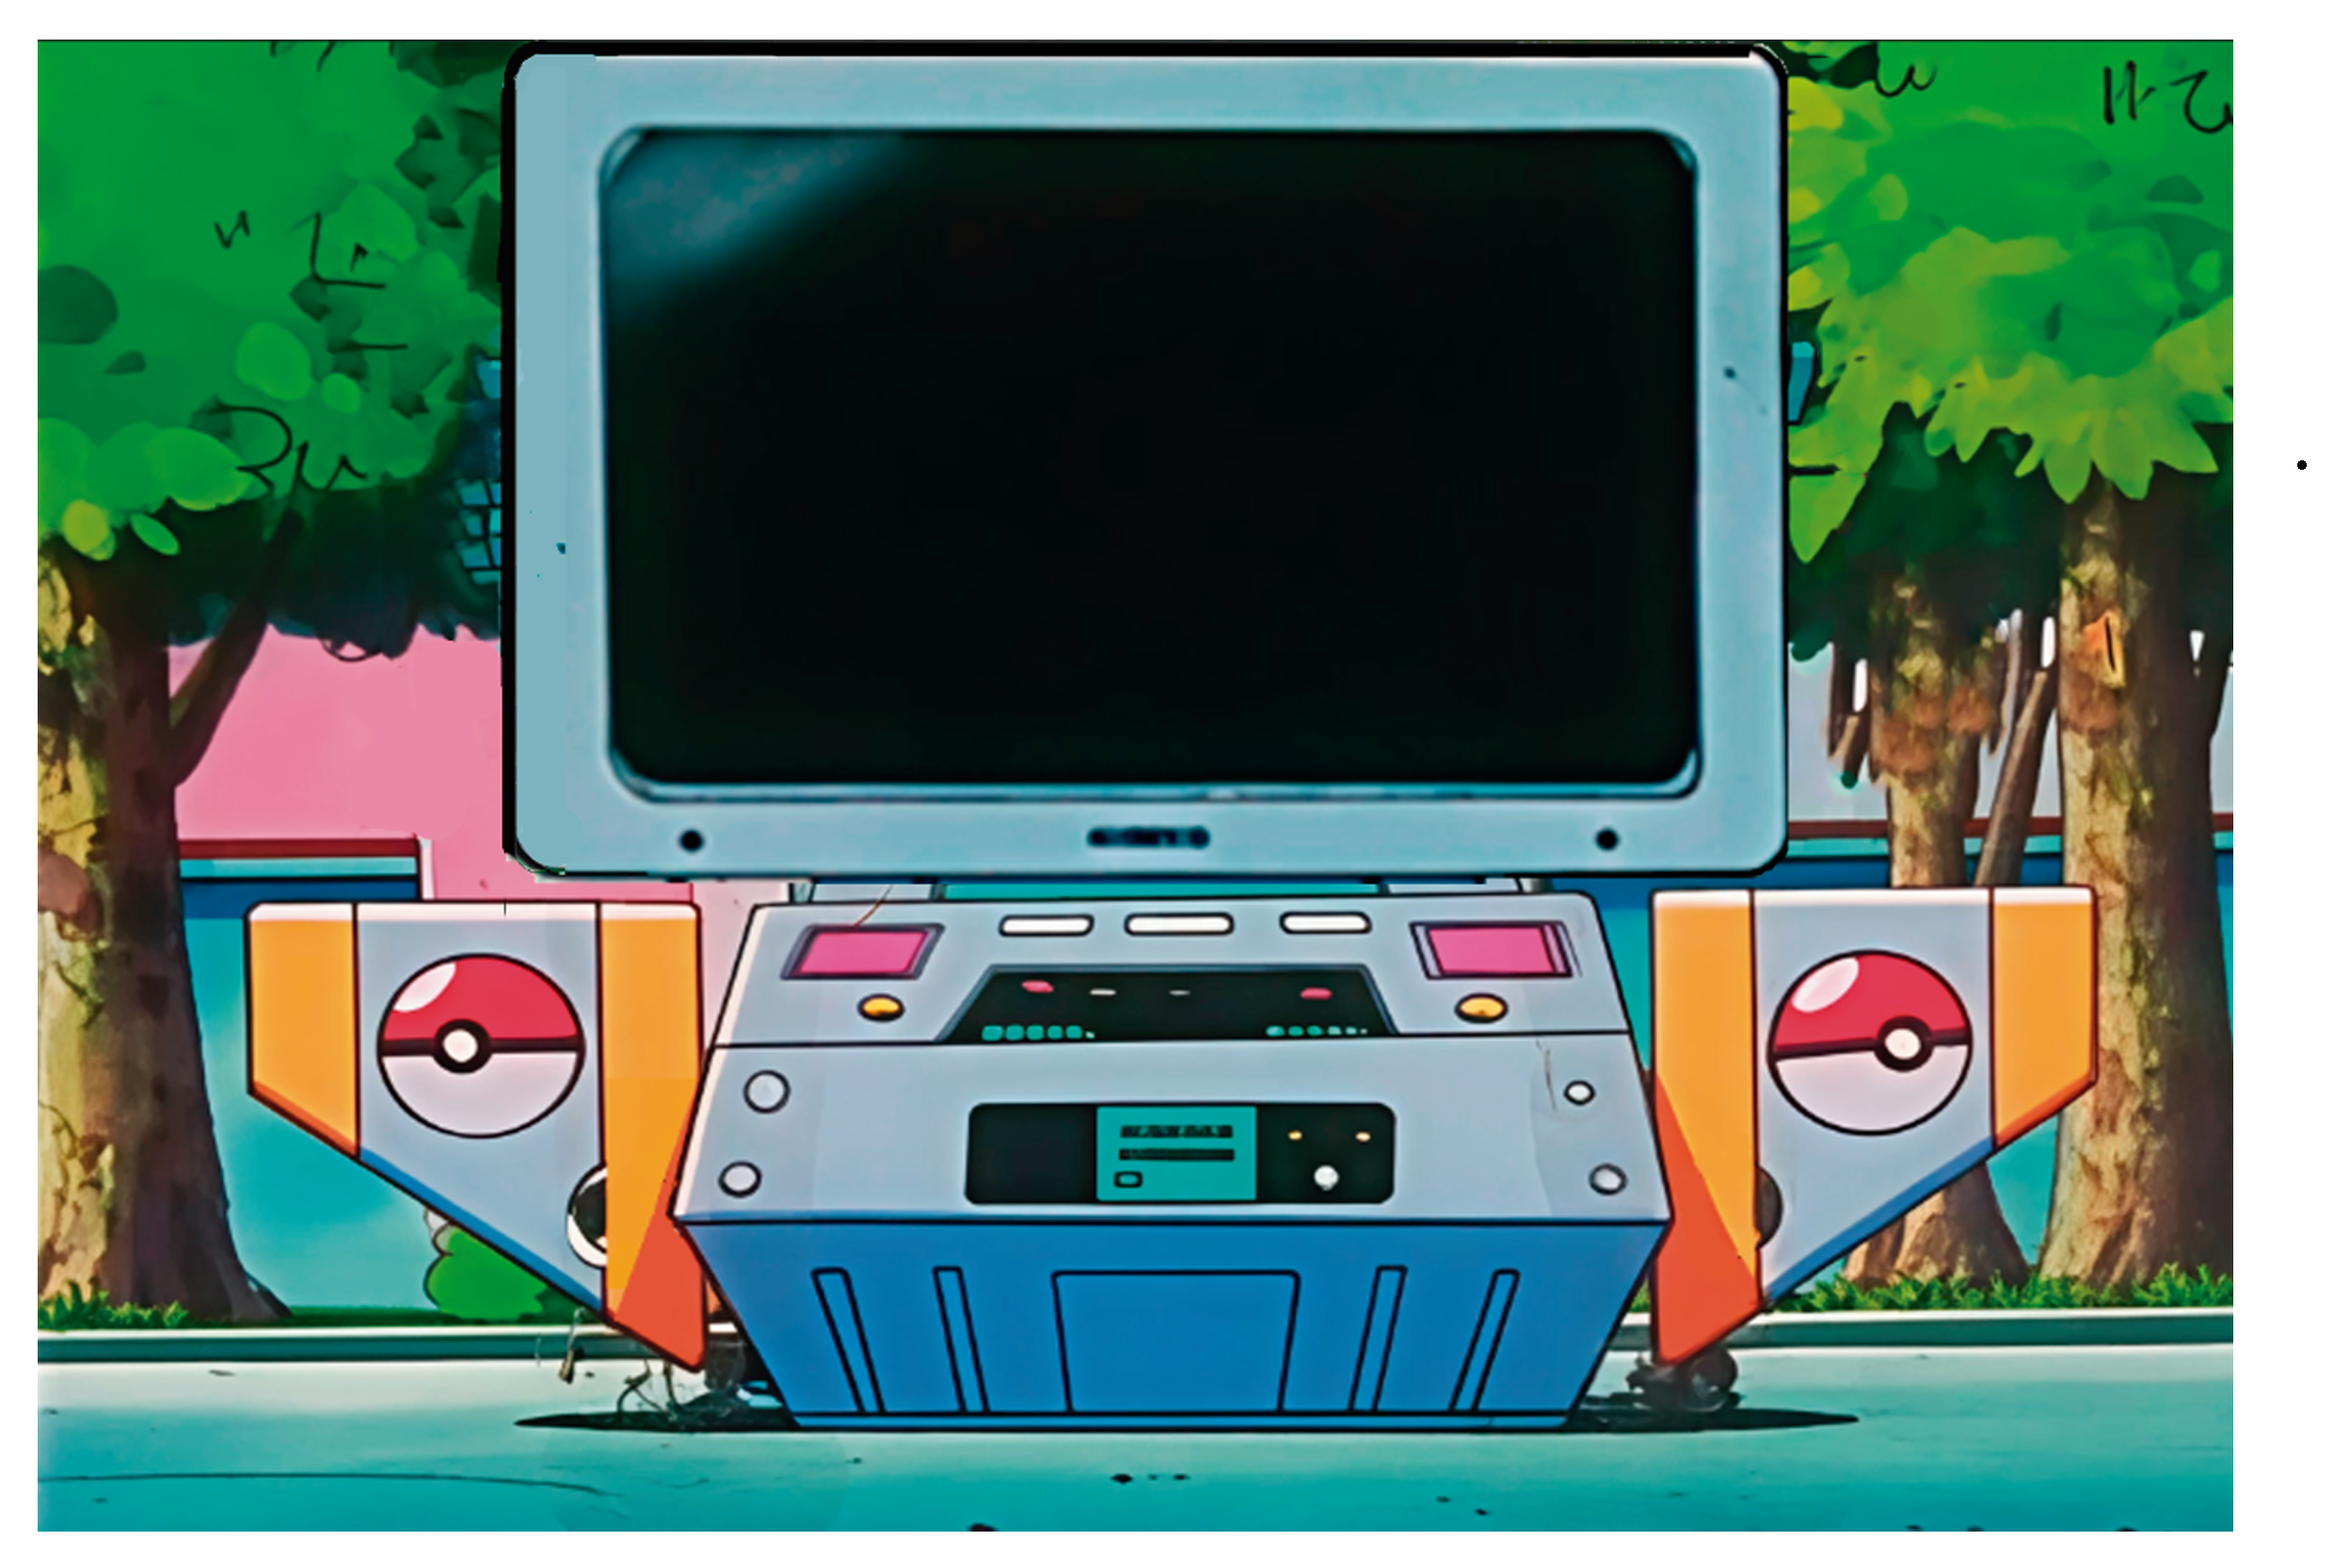
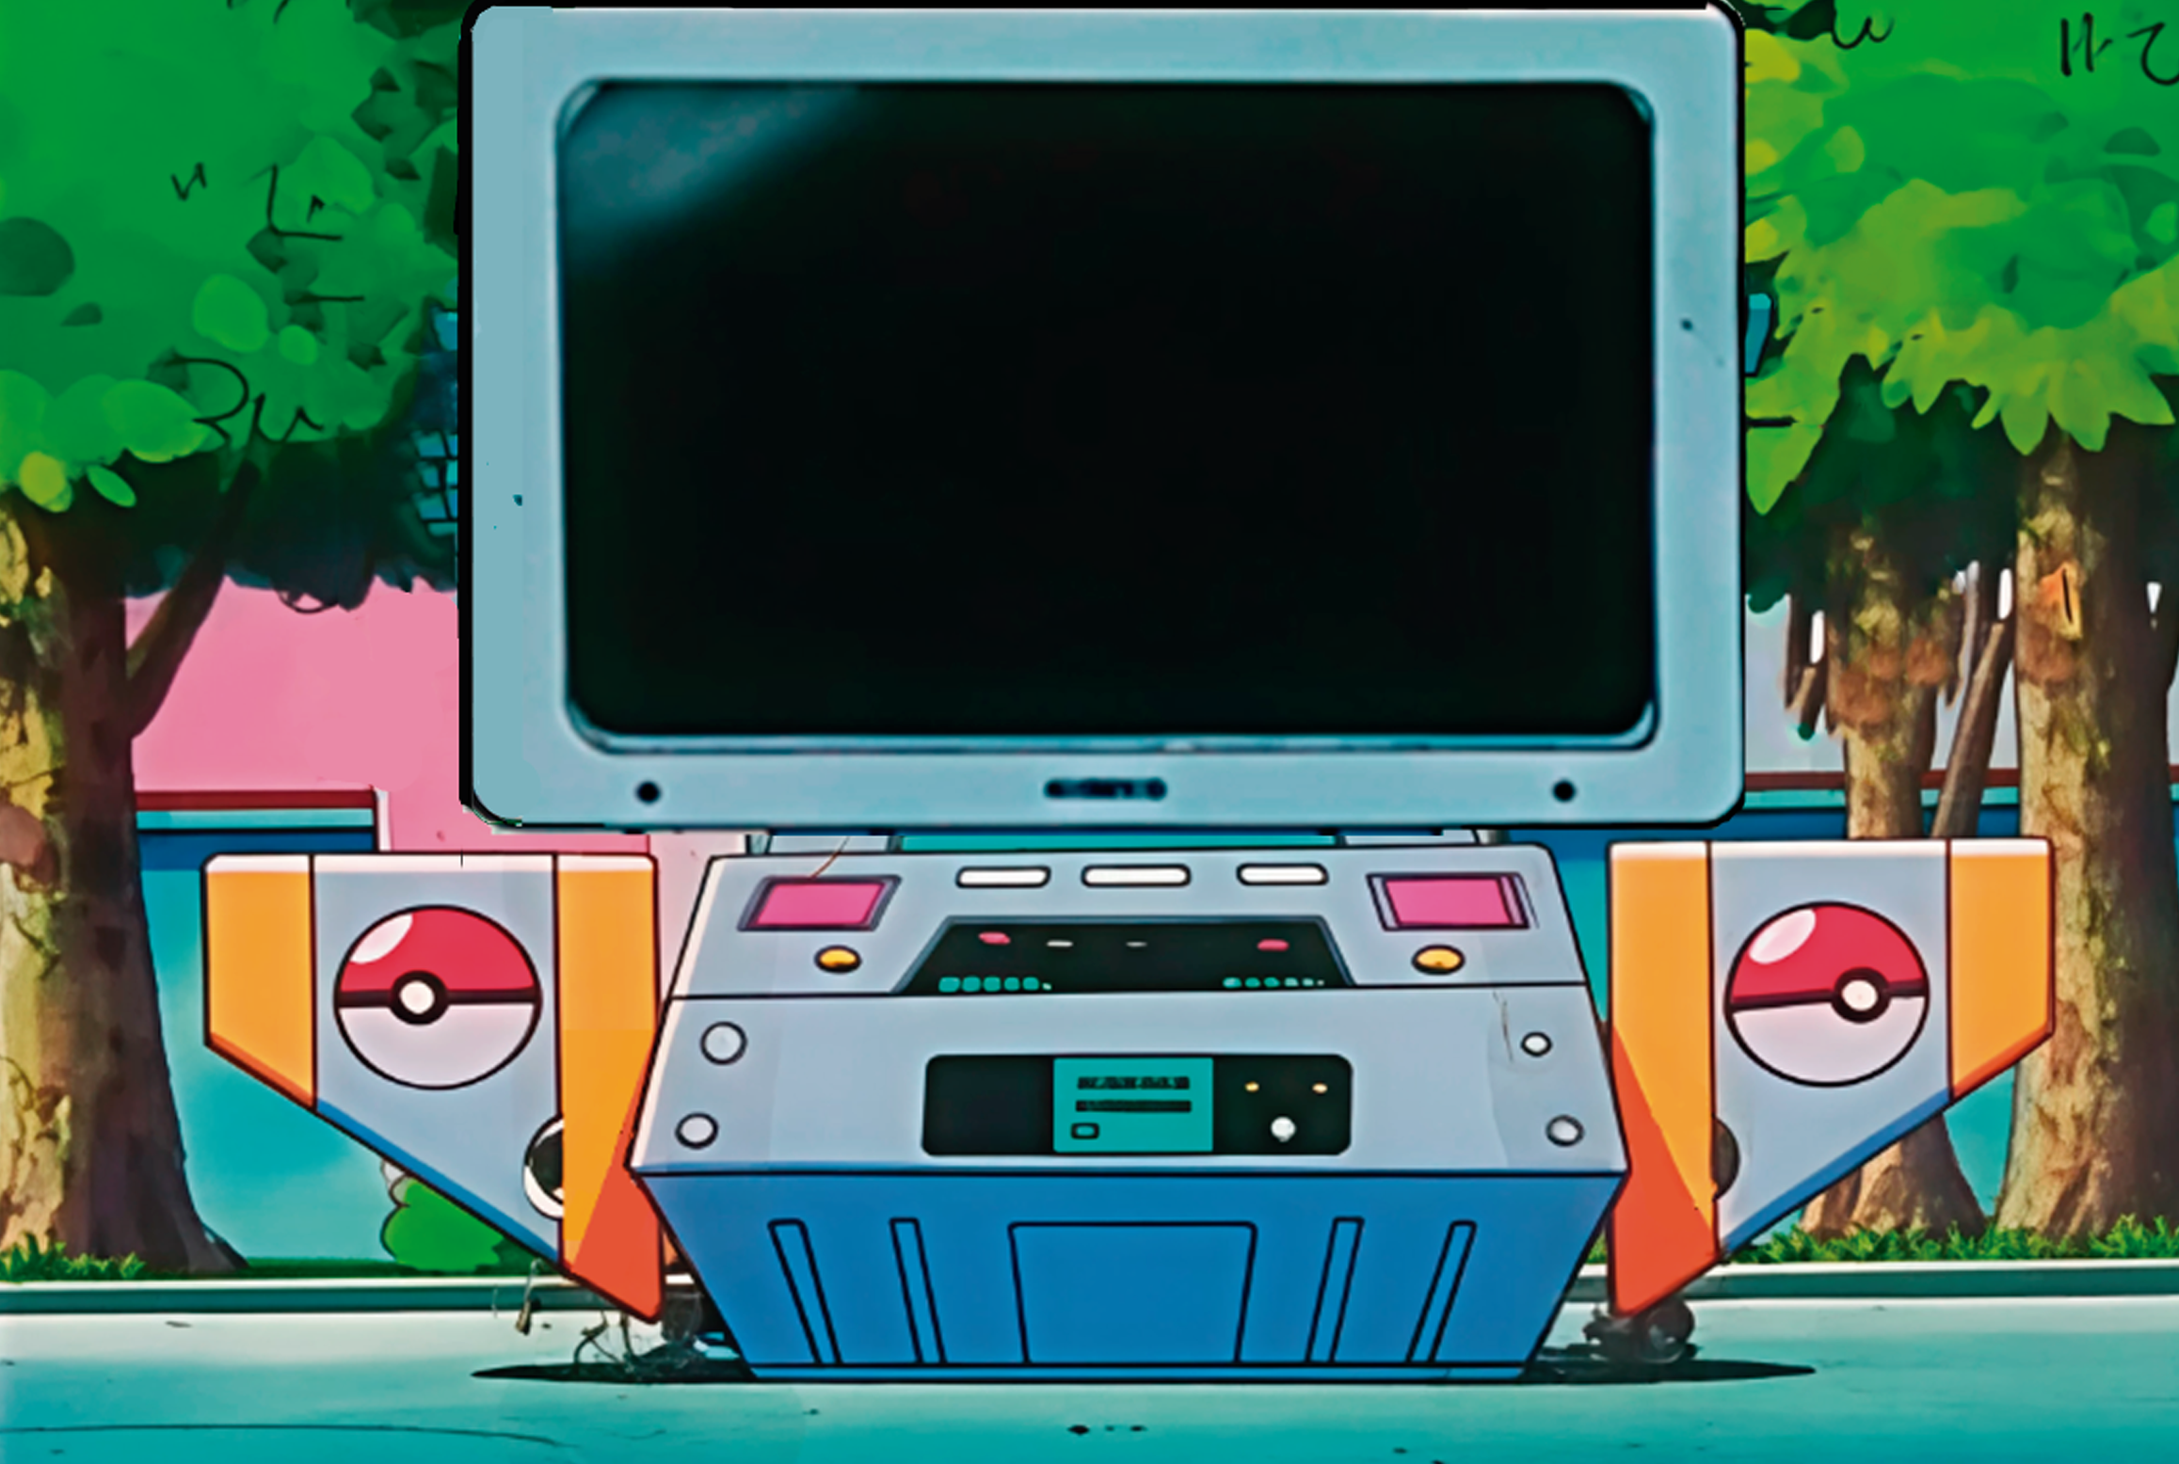
image/login update

diff --git a/pages/login.html b/pages/login.html
@@ -38,10 +38,15 @@
       body {
         font-family: "PokemonGB", sans-serif;
         font-size: 12px;
+
+        /* AQUI VA EL LINK DE LA IMAGEN DE FONDO */
         background-image: url("../assets/img/pokecompu_menu.png");
-        background-position: center 10%;   
-        background-size: cover;        
+
+        background-position: center;
+        background-size: 100% 100%; /* Asegura que cubra todo */
         background-repeat: no-repeat;
+        background-attachment: fixed;
+
         display: flex;
         justify-content: center;
         align-items: center;
@@ -51,7 +56,7 @@
 
       .login-container {
         position: absolute;
-        top: 32%;
+        top: 50%; /* Cambiado de 32% a 50% */
         left: 50%;
         transform: translate(-50%, -50%);
         background: var(--neutral);
@@ -113,28 +118,71 @@
   </head>
 
   <body>
-    <div class="login-container">
-      <img src="../assets/img/PokeBank-logo.png" alt="PokeBank Logo" />
-      <h3 class="mb-3">Inicio de Sesión</h3>
+  <style>
+    .login-container {
+      position: absolute;
+      top: 6.5%; /* Bajado un poco desde 5%, pero aún más arriba que 8% */
+      left: 50%;
+      transform: translate(-50%, 0);
+      background-color: white;
+      padding: 30px;
+      border-radius: 10px;
+      box-shadow: 0 4px 10px rgba(0, 0, 0, 0.2);
+      width: 320px;
+      text-align: center;
+    }
 
-      <form id="loginForm">
-        <div class="mb-3">
-          <label for="email" class="form-label"><i class="bi bi-envelope"></i> Correo Electrónico</label>
-          <input type="email" class="form-control" id="email" placeholder="Ingrese su correo" required />
-        </div>
+    .btn-login {
+      background-color: #2c7a1f;
+      color: white;
+    }
 
-        <div class="mb-3">
-          <label for="password" class="form-label"><i class="bi bi-lock"></i> Contraseña</label>
-          <input type="password" class="form-control" id="password" placeholder="Ingrese su contraseña" required />
-        </div>
+    .btn-login:hover {
+      background-color: #256917;
+    }
+  </style>
 
-        <button type="submit" class="btn btn-login w-100">Iniciar Sesión</button>
+  <div class="login-container">
+    <img src="../assets/img/PokeBank-logo.png" alt="PokeBank Logo" />
+    <h3 class="mb-3">Inicio de Sesión</h3>
 
-        <div class="mt-3">
-          <a href="#" class="text-decoration-none">¿Olvidaste tu contraseña?</a>
-        </div>
-      </form>
-    </div>
+    <form id="loginForm">
+      <div class="mb-3">
+        <label for="email" class="form-label">
+          <i class="bi bi-envelope"></i> Correo Electrónico
+        </label>
+        <input
+          type="email"
+          class="form-control"
+          id="email"
+          placeholder="Ingrese su correo"
+          required
+        />
+      </div>
+
+      <div class="mb-3">
+        <label for="password" class="form-label">
+          <i class="bi bi-lock"></i> Contraseña
+        </label>
+        <input
+          type="password"
+          class="form-control"
+          id="password"
+          placeholder="Ingrese su contraseña"
+          required
+        />
+      </div>
+
+      <button type="submit" class="btn btn-login w-100">Iniciar Sesión</button>
+
+      <div class="mt-3">
+        <a href="#" class="text-decoration-none">¿Olvidaste tu contraseña?</a>
+      </div>
+    </form>
+  </div>
+</body>
+
+
 
     <script>
       document.getElementById("loginForm").addEventListener("submit", function (event) {
